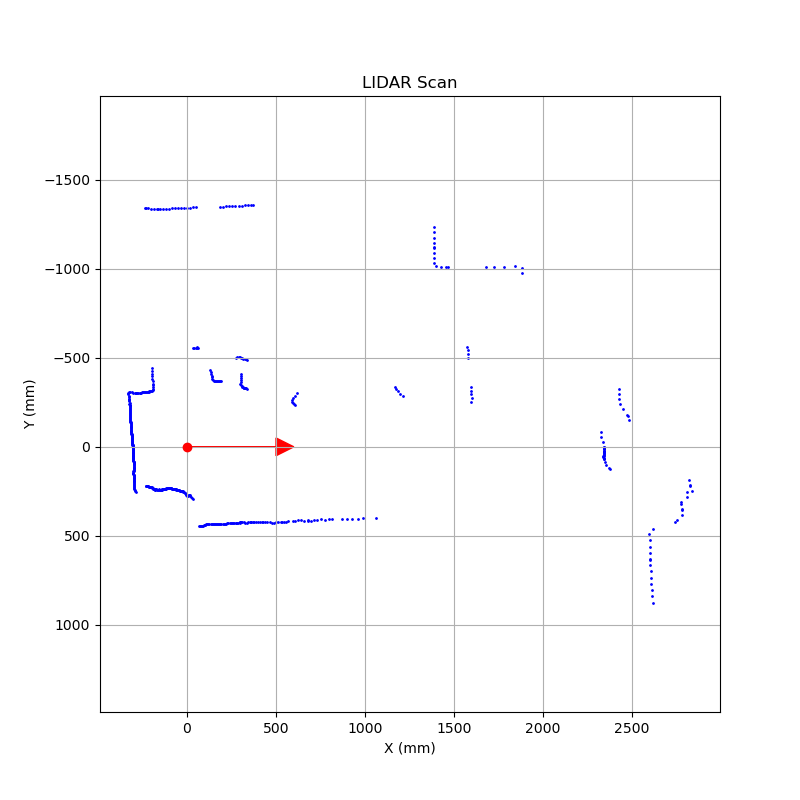
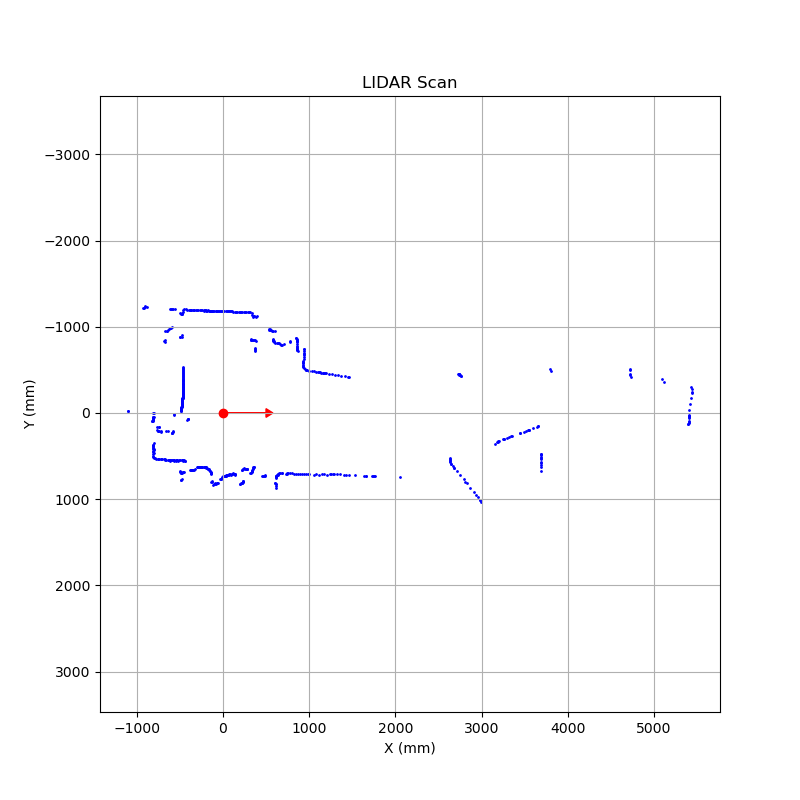
fixes

diff --git a/src/raspberry_pi/lidar.py b/src/raspberry_pi/lidar.py
@@ -22,6 +22,7 @@ class Lidar:
 
         self._scan = []
         self._sample_index = 0
+        self.scan_number = 0
         # self.get_health()
 
     
@@ -44,7 +45,7 @@ class Lidar:
         self.scan_thread.start()
 
     def _scan_handler(self): # THREAD
-        print("THREAD START")
+        # print("THREAD START")
         # send start command
         self.ser.flushInput()
         self.ser.write(self.START_COMMAND)
@@ -59,14 +60,13 @@ class Lidar:
         self.scanning = True
 
         sample_n = 0
-        scan_n = 0
         last_angle = 360.0
         while self.scanning:
             if self.ser.in_waiting < l:
                 continue
 
             if self.ser.in_waiting > (510*5 + 5):
-                print(f"FLUSHING: {self.ser.in_waiting}")
+                # print(f"FLUSHING: {self.ser.in_waiting}")
                 self.ser.read(510*5)
                 continue
 
@@ -80,29 +80,29 @@ class Lidar:
             
             # validity check
             if not (s ^ ns) or c != 1 or angle_deg > 360.0:
-                print(f"ERROR {not (s ^ ns)} {c != 1} {angle_deg > 360} {dist_mm == 0.0}")
-                print(f"\n    data: {format(data[0], '08b')} {format(data[1], '08b')} {format(data[2], '08b')} {format(data[3], '08b')} {format(data[4], '08b')}\t waiting: {self.ser.in_waiting}")
-                # FIX try to read until it gets a valid data
+                print("INVALID DATA RECEIVED")
                 self.ser.flushInput()
                 continue
+                # print(f"ERROR {not (s ^ ns)} {c != 1} {angle_deg > 360} {dist_mm == 0.0}")
+                # print(f"\n    data: {format(data[0], '08b')} {format(data[1], '08b')} {format(data[2], '08b')} {format(data[3], '08b')} {format(data[4], '08b')}\t waiting: {self.ser.in_waiting}")
+                # FIX try to read until it gets a valid data
 
             # new scan check
             sample_n += 1
             if angle_deg < last_angle:
-                print(f"sample_n: {sample_n}, scan_n: {scan_n}, scan_index: {self._sample_index}")
-                print("\n\nNEW SCAN")
+                # print(f"sample_n: {sample_n}, scan_n: {self.scan_number}, scan_index: {self._sample_index}")
+                # print("\n\nNEW SCAN")
                 sample_n = 0
                 self._sample_index = 0
-                scan_n += 1
+                self.scan_number += 1
             
             last_angle = angle_deg
-            # add to last scan
-            self._add_sample_to_scan((angle_deg, dist_mm, scan_n))
+            self._add_sample_to_scan((angle_deg, dist_mm, self.scan_number))
 
-            print(f"    deg: {angle_deg:.2f}°\t\tdist: {dist_mm} mm\t    waiting: {self.ser.in_waiting}")
+            # print(f"    deg: {angle_deg:.2f}°\t\tdist: {dist_mm} mm\t    waiting: {self.ser.in_waiting}")
 
 
-        print("THREAD END")
+        # print("THREAD END")
 
     
     def _unpack_data(self, data):

diff --git a/src/raspberry_pi/lidar_test.py b/src/raspberry_pi/lidar_test.py
@@ -15,7 +15,8 @@ def print_scan(scan):
     print(f"size: {len(scan)}")
     print("\n\n")
 
-def draw_scan(scan):
+def draw_scan(scan, name="test"):
+    path_name = f"../../img/{name}.png"
     # Convert polar coordinates to Cartesian
     x_points = []
     y_points = []
@@ -45,10 +46,8 @@ def draw_scan(scan):
     plt.ylabel("Y (mm)")
     plt.axis('equal')  # Ensures aspect ratio is equal for X and Y axes
     plt.grid(True)
-    plt.savefig('../../img/test.png', format='png')
+    plt.savefig(path_name, format='png')
     plt.close()
-
-
 
 l = Lidar()
 l.start_scan()
@@ -56,13 +55,33 @@ l.start_scan()
 
 time.sleep(5)
 l1 = l.get_scan()
-time.sleep(5)
+print("scan 1")
+
+time.sleep(1)
 l2 = l.get_scan()
-time.sleep(5)
+print("scan 2")
+
+time.sleep(1)
 l3 = l.get_scan()
+print("scan 3")
+
+time.sleep(1)
+l4 = l.get_scan()
+print("scan 4")
+
+time.sleep(1)
+l5 = l.get_scan()
+print("scan 5")
+
 l.stop_scan()
 
 print_scan(l1)
 print_scan(l2)
-draw_scan(l3)
+print_scan(l3)
+draw_scan(l1, "test1")
+draw_scan(l2, "test2")
+draw_scan(l3, "test3")
+draw_scan(l4, "test4")
+draw_scan(l5, "test5")
+
         
